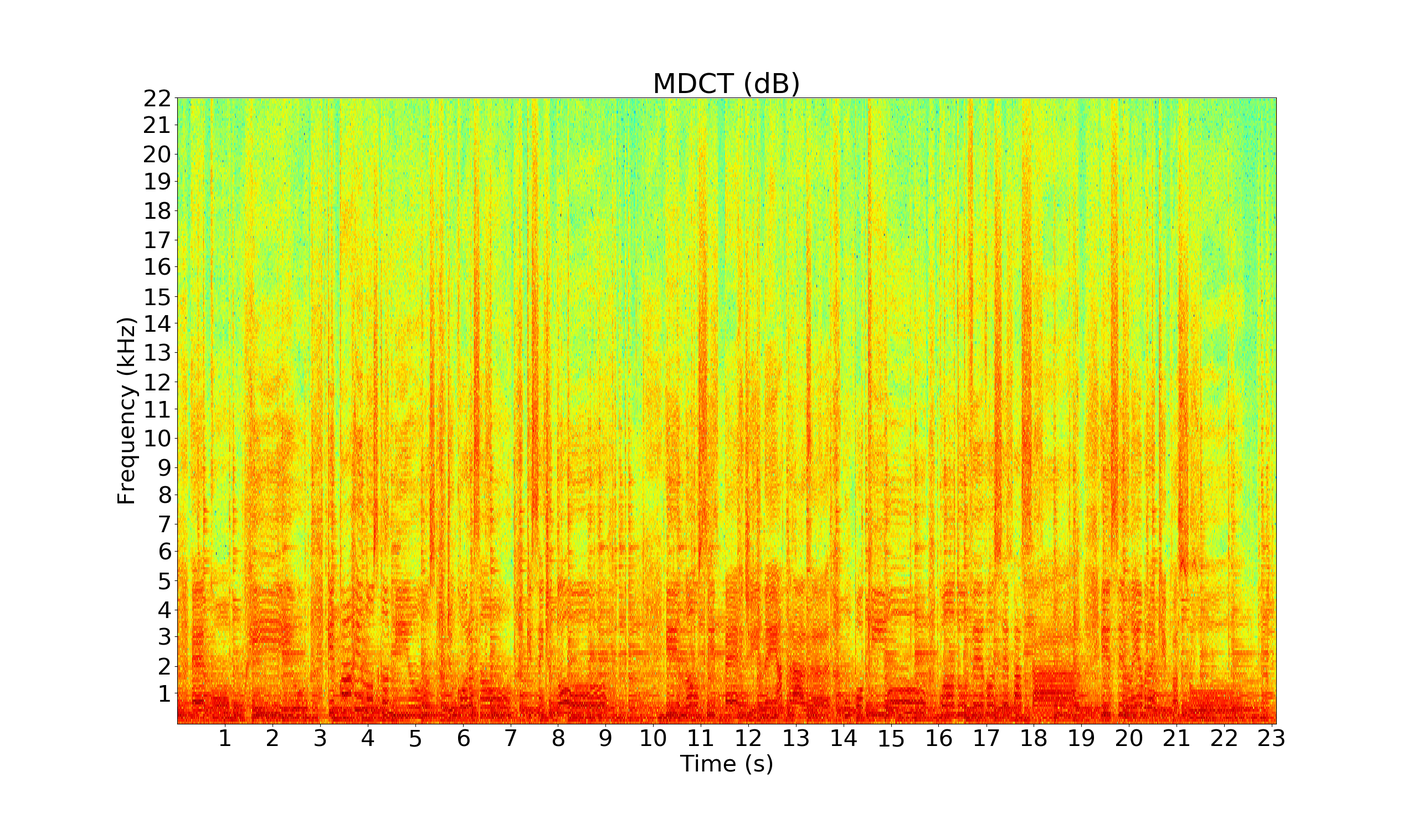
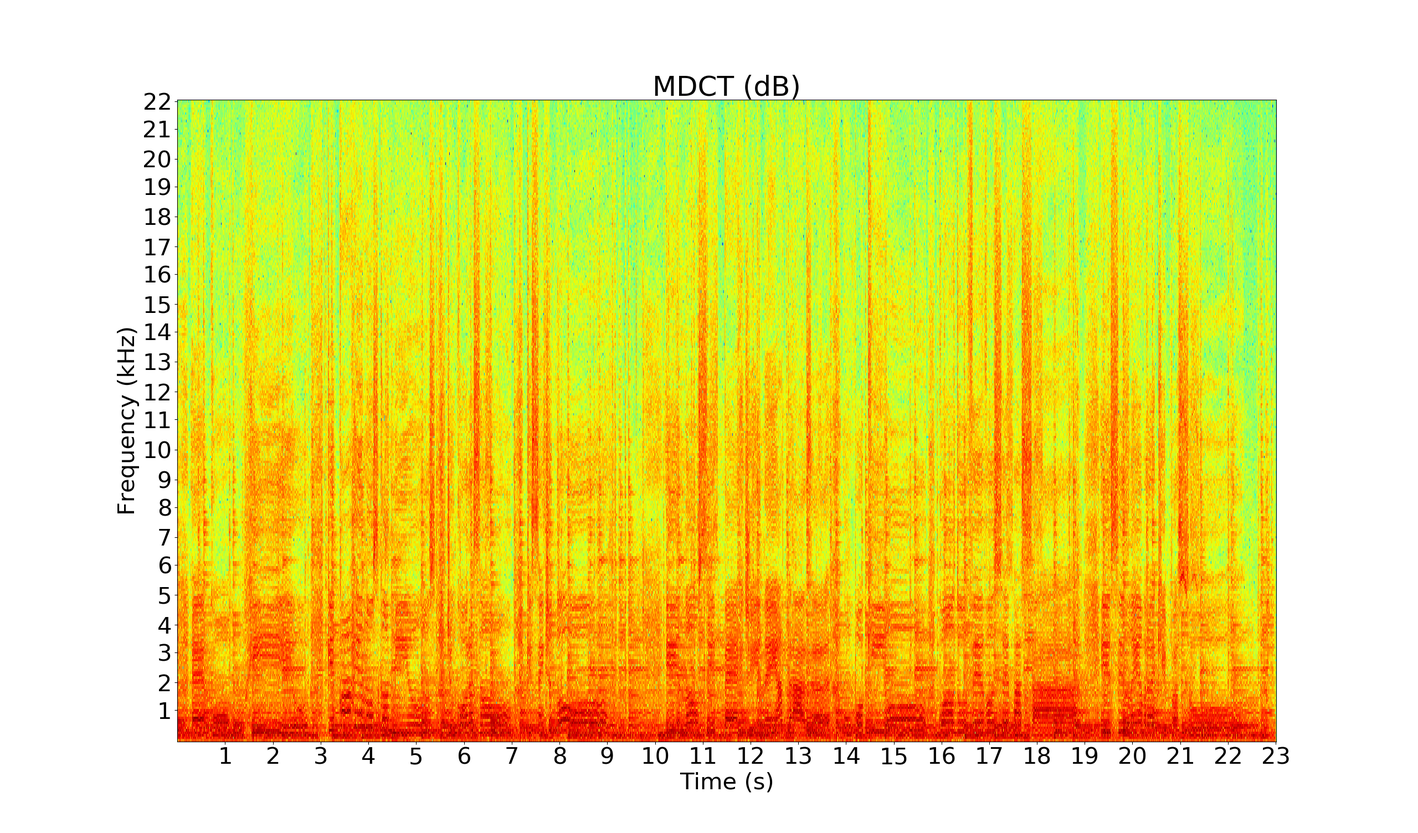
Added z mdct julia and fixed some typos.

diff --git a/z.py b/z.py
@@ -19,7 +19,7 @@ Author:
     http://zafarrafii.com
     https://github.com/zafarrafii
     https://www.linkedin.com/in/zafarrafii/
-    05/31/18
+    06/01/18
 """
 
 import numpy as np
@@ -837,7 +837,7 @@ def mdct(audio_signal, window_function):
         window_length = 512
         alpha_value = 5
         window_function = np.kaiser(int(window_length/2)+1, alpha_value*np.pi)
-        window_function2 = np.cumsum(window_function[1:int(window_length/2)])
+        window_function2 = np.cumsum(window_function[0:int(window_length/2)])
         window_function = np.sqrt(np.concatenate((window_function2, window_function2[int(window_length/2)::-1]))
                                   / np.sum(window_function))
 

diff --git a/z.m b/z.m
@@ -19,7 +19,7 @@
     %   http://zafarrafii.com
     %   https://github.com/zafarrafii
     %   https://www.linkedin.com/in/zafarrafii/
-    %   05/31/18
+    %   06/01/18
     
     methods (Static = true)
         
@@ -815,7 +815,7 @@
             end
             
             % DCT-IV
-            audio_mdct = dct(audio_mdct,'Type',4);
+            audio_mdct = sqrt(window_length/4)*dct(audio_mdct,'Type',4);
             
         end
         
